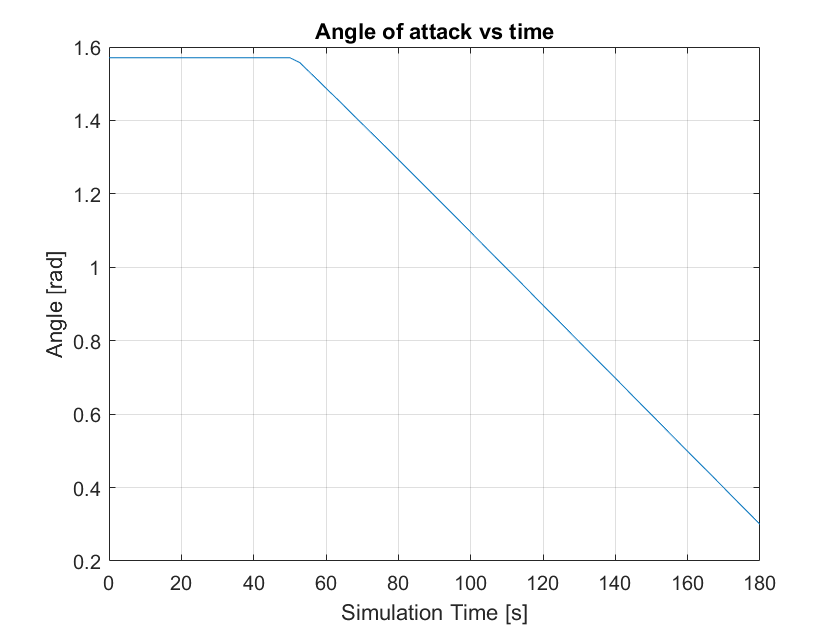
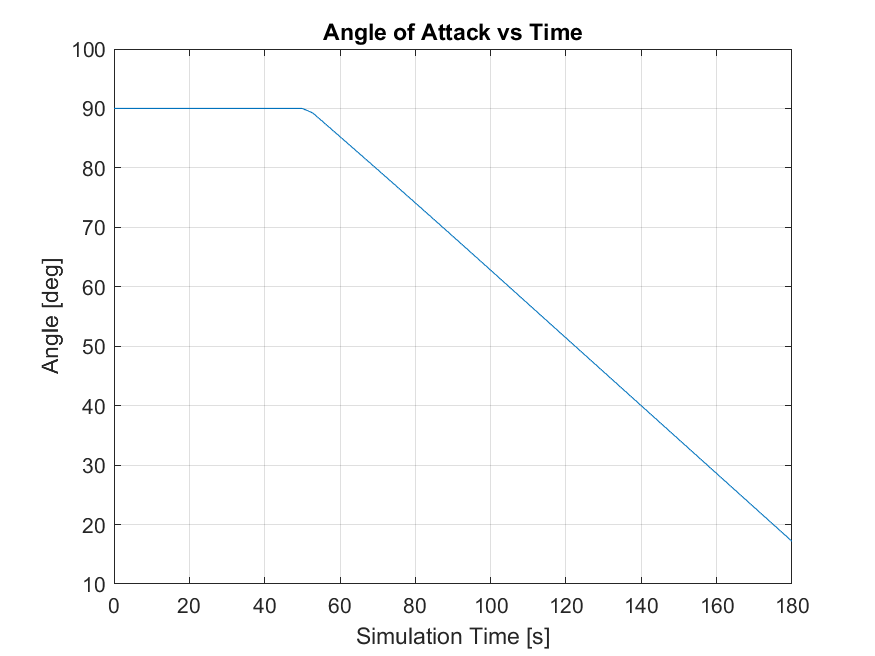
Autosave figures
fixed some title/axis consistency too

diff --git a/Project 2/plotter.m b/Project 2/plotter.m
@@ -11,6 +11,7 @@ grid on
 xlabel('Simulation Time [s]')
 ylabel('Force [N]')
 title('Body Forces')
+saveas(gcf, 'Figures/bodyforces.png');
 
 figure(2)
 yyaxis left
@@ -27,6 +28,7 @@ xlabel('Simulation Time [s]')
 title('Body Dynamics')
 grid on
 legend('Vertical Velocity','Horizontal Velocity','Vertical Acceleration','Horizontal Acceleration')
+saveas(gcf, 'Figures/bodydynamics.png');
 
 figure(3)
 yyaxis left
@@ -40,6 +42,7 @@ xlabel('Simulation Time [s]')
 title('Aerodynamic Factors')
 grid on
 legend('Coefficent of Drag', 'Dynamic Pressure')
+saveas(gcf, 'Figures/aerofactors.png');
 
 figure(4)
 yyaxis left
@@ -60,13 +63,15 @@ x2.LabelVerticalAlignment = 'middle';
 x3 = xline(100,'--','Motor Cutoff');
 x3.LabelVerticalAlignment = 'middle';
 legend([altp, machp], 'Altitude', 'Mach')
+saveas(gcf, 'Figures/flightprofile.png');
 
 figure(5)
 plot(out.Gravity(:,1), out.Gravity(:,2)*-1)
 ylabel('Gravity [m/s^2]')
 xlabel('Simulation Time [s]')
-title('gravity acceleration vs time')
+title('Acceleration Due to Gravity vs Time')
 grid on
+saveas(gcf, 'Figures/gravity.png');
 
 figure(6)
 yyaxis left
@@ -80,13 +85,15 @@ grid on
 xlabel('Simulation Time [s]')
 legend([vertforce, sideforce],'Vertical Force', 'Side Force')
 title('Body Forces')
+saveas(gcf, 'Figures/sidevertforces.png');
 
 figure(7)
 plot(out.Angle(:,1), out.Angle(:,2))
-ylabel('Angle [rad]')
+ylabel('Angle [deg]')
 xlabel('Simulation Time [s]')
 grid on
-title('Angle of attack vs time')
+title('Angle of Attack vs Time')
+saveas(gcf, 'Figures/angle.png');
 
 mass_vec = ones(97,1);
 cur_mass = 1446.58165;
@@ -102,6 +109,7 @@ xlabel('Simulation Time [s]')
 ylabel('Mass [kg]')
 grid on
 title('Mass vs time')
+saveas(gcf, 'Figures/mass.png');
 
 result_vel = sqrt(out.vel(:,2).^2 + out.vel(:,3).^2);
 figure(9)
@@ -110,13 +118,18 @@ xlabel('Simulation Time [s]')
 ylabel('Resultant Velocity [m/s]')
 grid on
 title('Resultant Velocity vs Time')
+saveas(gcf, 'Figures/resultantvelocity.png');
 
 figure(10)
 plot(out.pos(:,2), out.pos(:,3)*-1)
+axis equal
+xlim([min(out.pos(:,2))-100000, 300000]);
+ylim([min(out.pos(:,3)*-1), max(out.pos(:,3)*-1)])
 xlabel('Horizontal Position [m]')
 ylabel('Vertical Position [m]')
 grid on
 title('Rocket Heading')
+saveas(gcf, 'Figures/heading.png');
 
 figure(11)
 plot(out.AngularVel(:,1), out.AngularVel(:,2))
@@ -124,6 +137,7 @@ xlabel('Simulation Time [s]')
 ylabel('Angular Velocity [rad/s]')
 grid on
 title('Angular Velocity vs Time')
+saveas(gcf, 'Figures/angularvelocity.png');
 
 % sim = readtable('./RocketSim/rocketSimData.csv');
 % figure(5)
